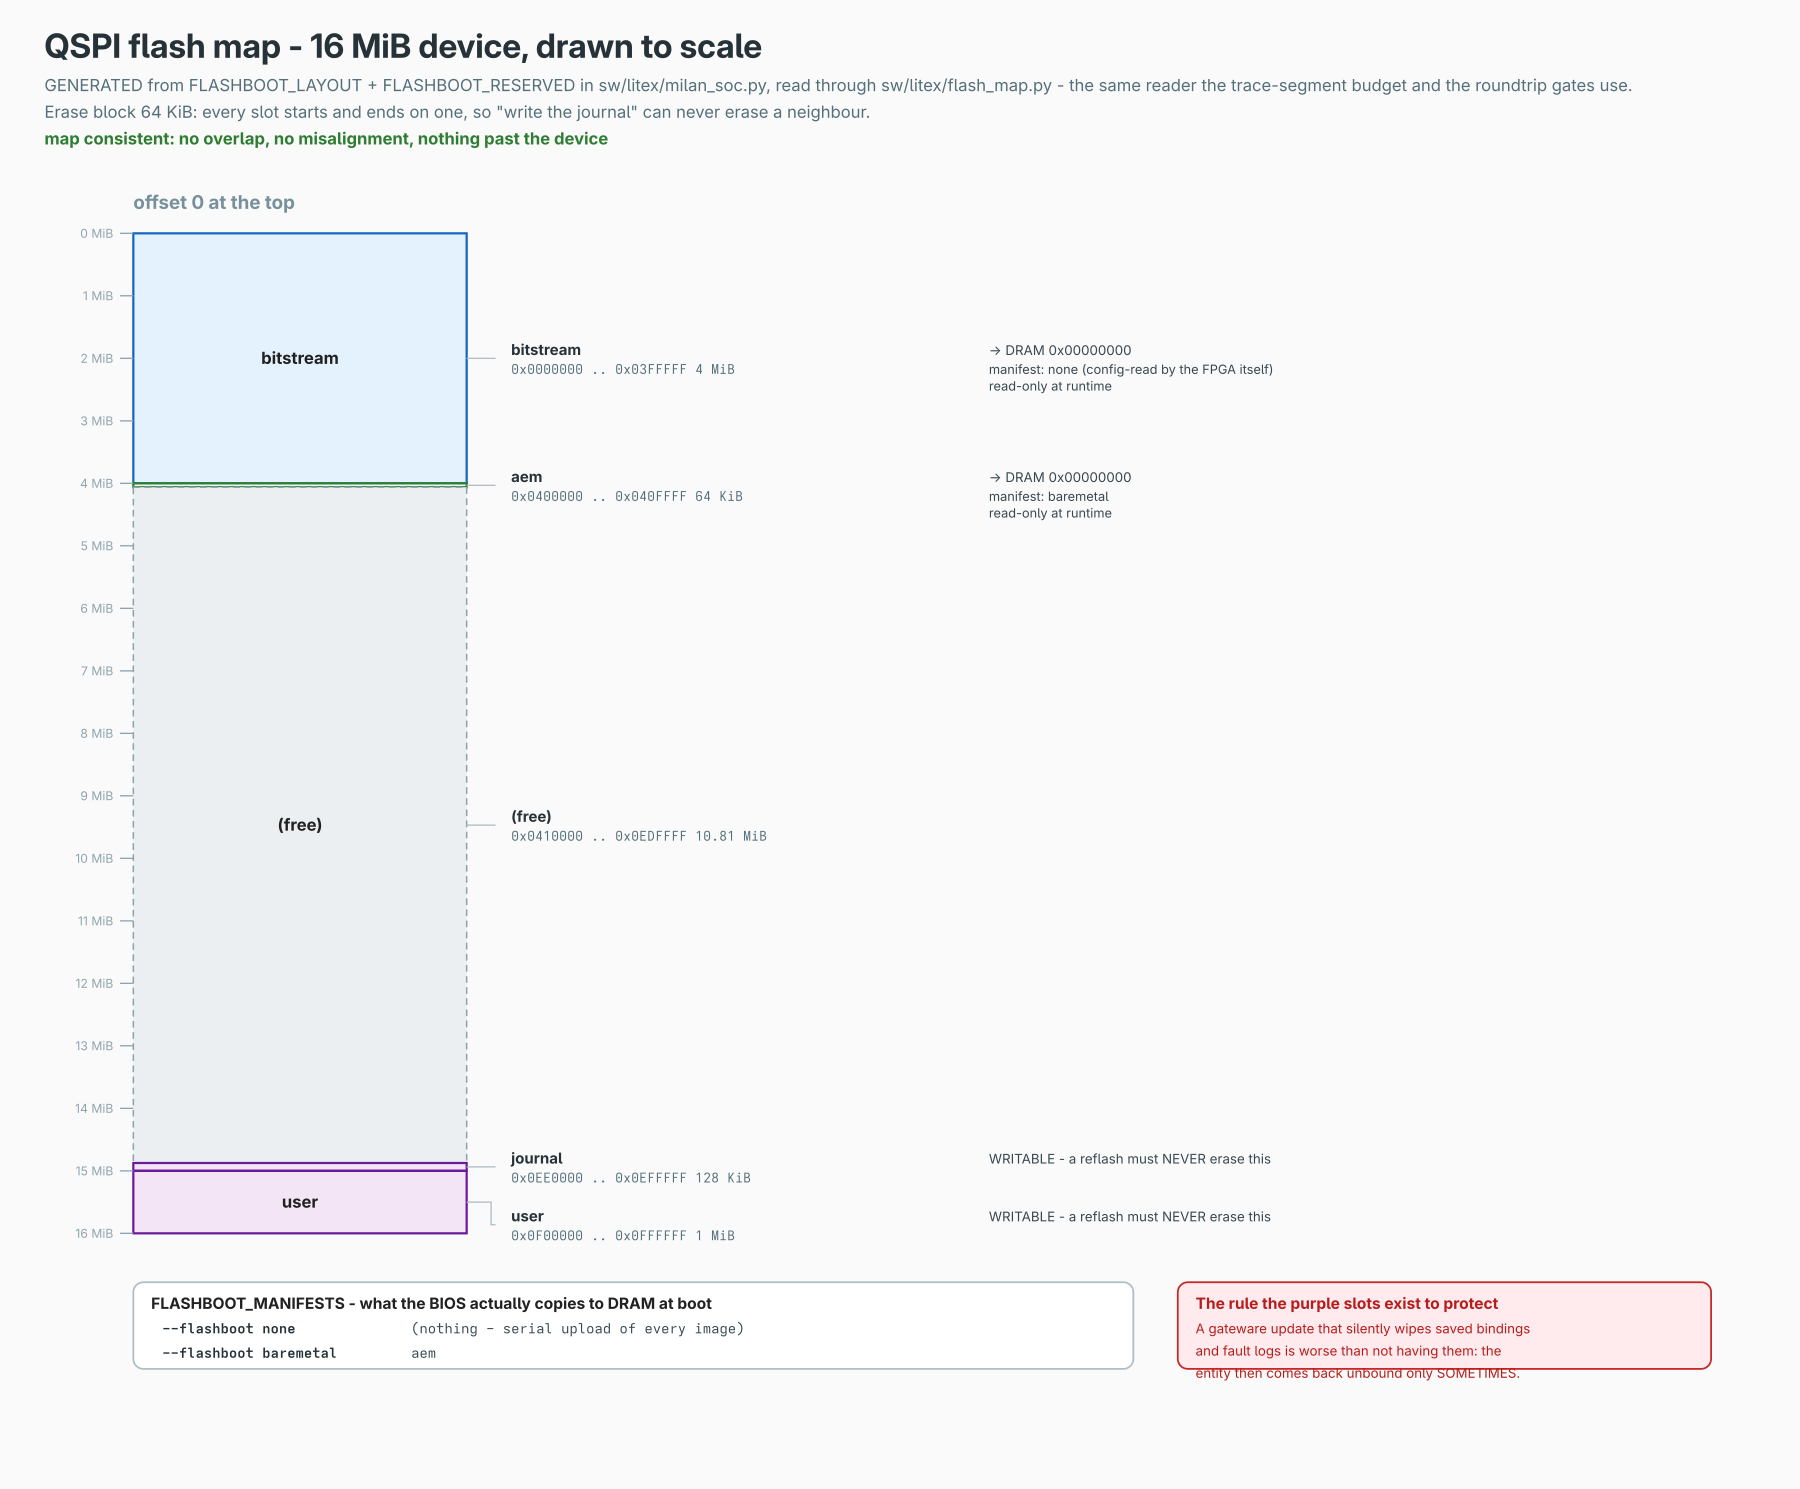
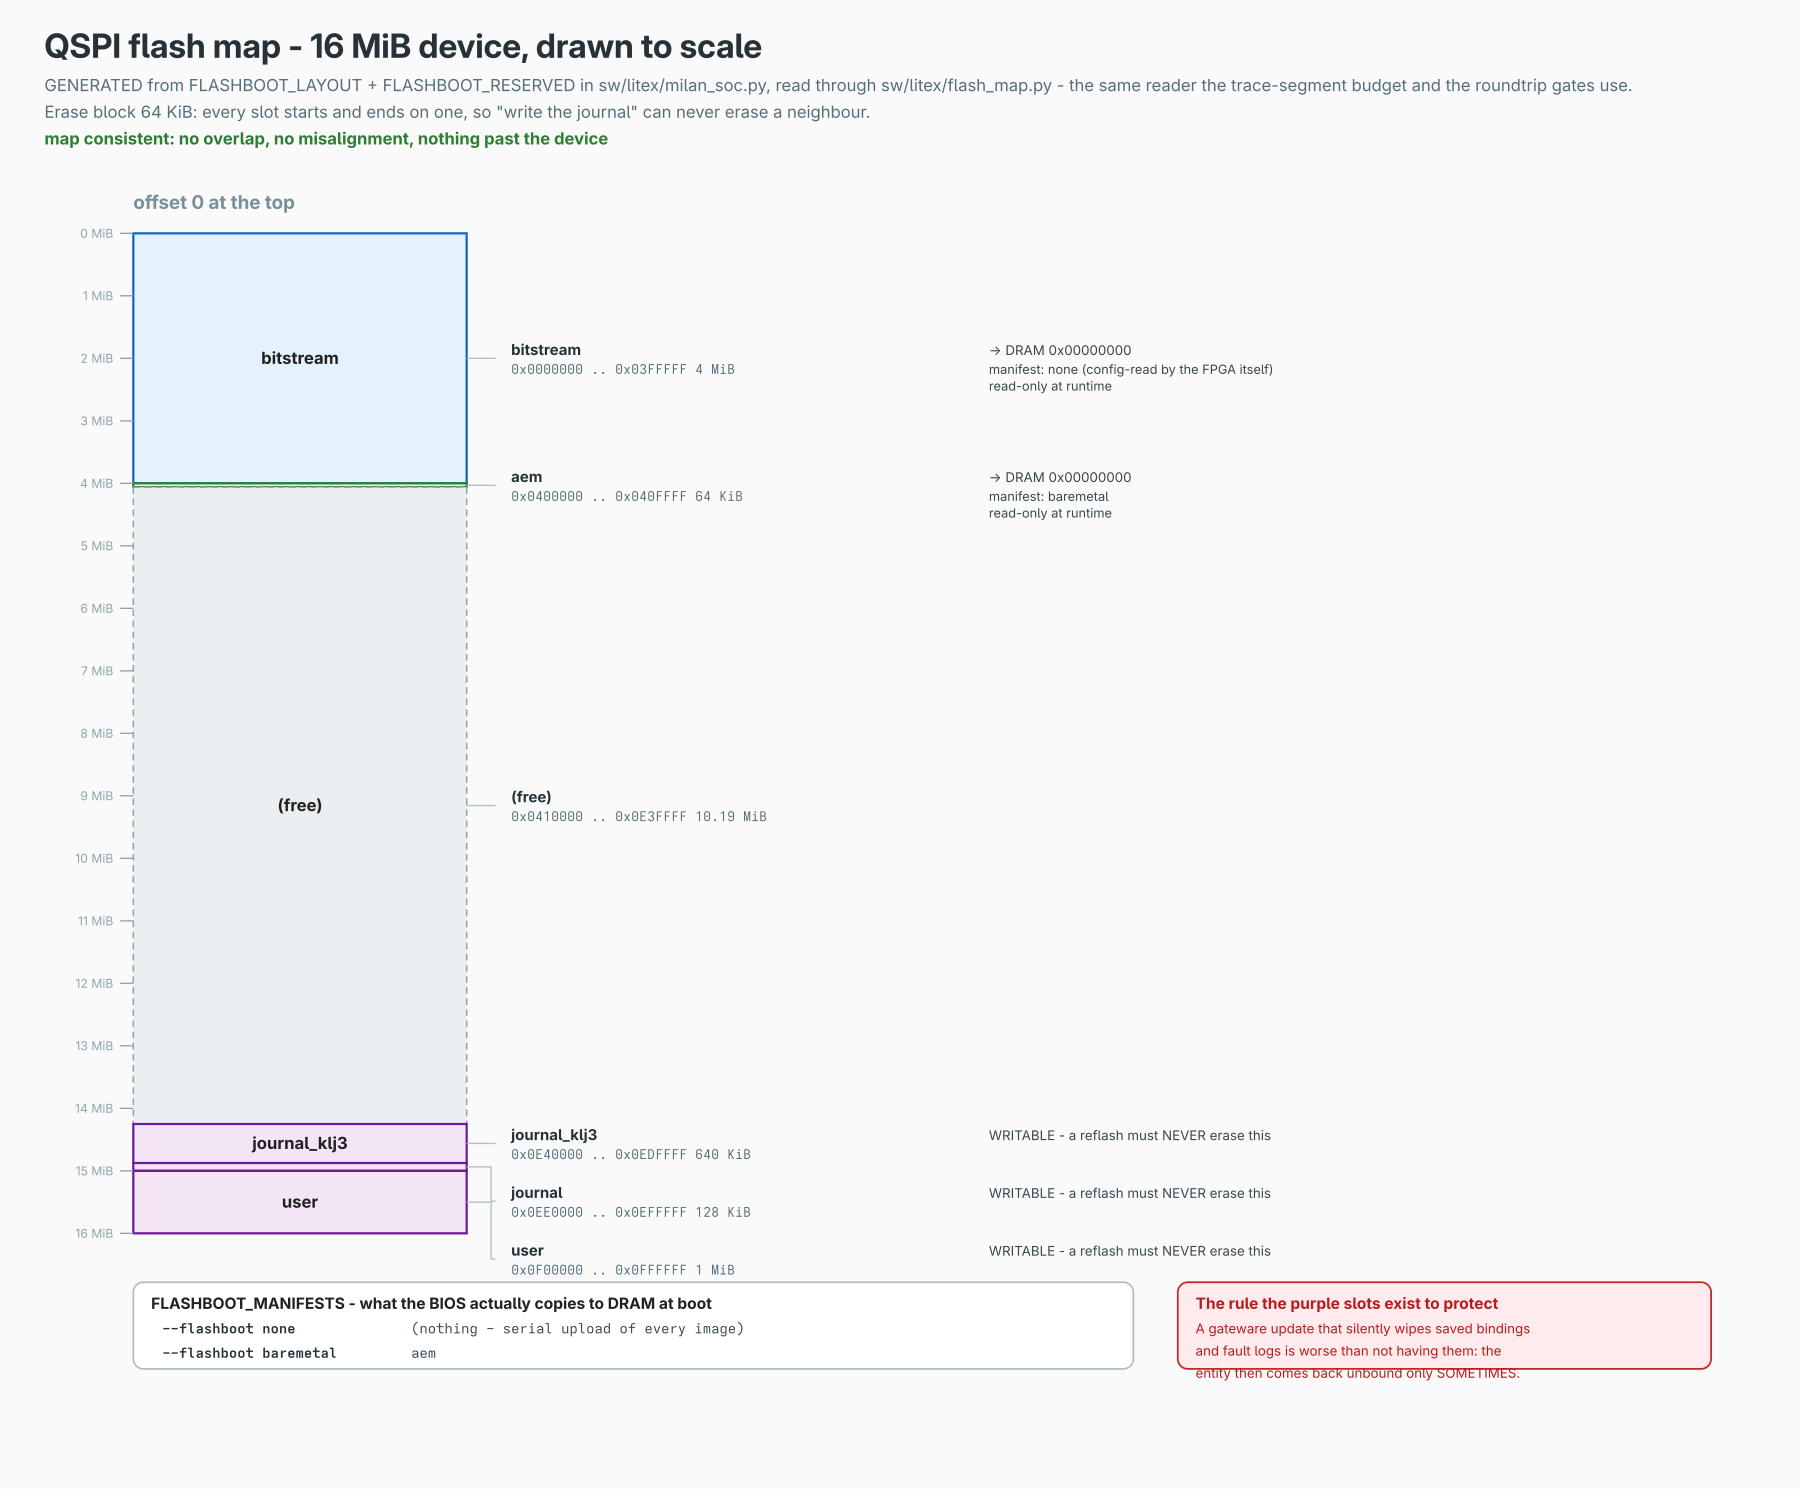
Show journal_klj3 in every flash map: FASTCONNECT section 5, QSPI_FLASHBOOT, the SoC's slot comment and the diagram regenerated from FLASHBOOT_RESERVED (#823)

diff --git a/sw/litex/milan_soc.py b/sw/litex/milan_soc.py
@@ -159,6 +159,10 @@ FLASHBOOT_AEM = FLASHBOOT_LAYOUT["aem"]
 #            "a torn write cannot damage the other slot" is then a property of
 #            the flash geometry, not a promise from a log-structured fs, and the
 #            slot is readable before any mount.
+#   journal_klj3  2 x 320 KiB = slot A / slot B of five erase blocks, RAW: the
+#            split placement's KLJ3 saved state (#823), written only by its
+#            store (sw/firmware/ctrl_nvm), which reads journal's two headers
+#            and never writes them; the all-fabric writer never touches it.
 #   user     raw bare-metal records: entity/group names, channel maps, mixer
 #            state, and the rotating compressed CTF fault log. There is no
 #            filesystem or target-OS mount associated with this region.

diff --git a/docs/design/SAVED_STATE_FASTCONNECT.md b/docs/design/SAVED_STATE_FASTCONNECT.md
@@ -540,7 +540,8 @@ the retired flash-partition emitter derived the same
 
 | Offset | Size | Slot | Written by |
 |---|---|---|---|
-| `0xEE_0000` | 128 KiB | **`journal`** -- 2 x 64 KiB erase blocks, slot A and slot B, raw | the persistence writer only |
+| `0xE4_0000` | 640 KiB | **`journal_klj3`** -- 2 x 320 KiB slots of five erase blocks, slot A and slot B, raw: the split placement's KLJ3 | the split placement's store only (`sw/firmware/ctrl_nvm`) |
+| `0xEE_0000` | 128 KiB | **`journal`** -- 2 x 64 KiB erase blocks, slot A and slot B, raw: the all-fabric placement's KLJ2 | the all-fabric persistence writer only |
 | `0xF0_0000` | 1 MiB | `user` -- writable region, unclaimed today | no current product owner |
 
 `journal` is raw and filesystem-free on purpose. Each slot is exactly one erase
@@ -550,6 +551,11 @@ before any mount -- which is where a fast connect wants to happen. A reflash
 must not erase either slot: a gateware update that silently wipes saved bindings
 is worse than having none, because the entity then comes back unbound
 *sometimes*.
+
+`journal_klj3` is the same design at the split placement's size (#823).
+Each of its slots is five erase blocks, and a commit erases every block its container spans.
+The split's store writes only there.
+It reads the two headers of `journal` and never writes it, so a rollback to an all-fabric image finds that journal intact.
 
 **Board applicability.** The AX7101 has the reservation. A board without it gets
 no journal, and the degradation is part of the design: no journal, no replay,

diff --git a/docs/integration/QSPI_FLASHBOOT.md b/docs/integration/QSPI_FLASHBOOT.md
@@ -55,9 +55,11 @@ The AEM slot sits at `0x40_0000`, immediately after the bitstream budget.
 Always flash the AEM from the same build as the bitstream: its entity/model identity,
 length, CRC and destination are compiled into that firmware.
 
-The `journal` and `user` ranges are RESERVED: no manifest writes them and a
-reflash must not erase them. The saved-state journal that used those slots
-was deleted 2026-08-13 with this repository's own AECP/AEM engine, so nothing
+The `journal_klj3`, `journal` and `user` ranges are RESERVED: no manifest
+writes them and a reflash must not erase them. `journal_klj3`, the 640 KiB
+directly below `journal`, holds the split placement's saved state: only its
+store writes there (#823). The saved-state journal that used `journal` and
+`user` was deleted 2026-08-13 with this repository's own AECP/AEM engine, so nothing
 writes or reads them today. Persistence is a genuine loss, not a relocation:
 the protocol processor's NVM face is answered by a blank-flash responder, so a
 restore walk always completes with zero records and nothing survives a power
